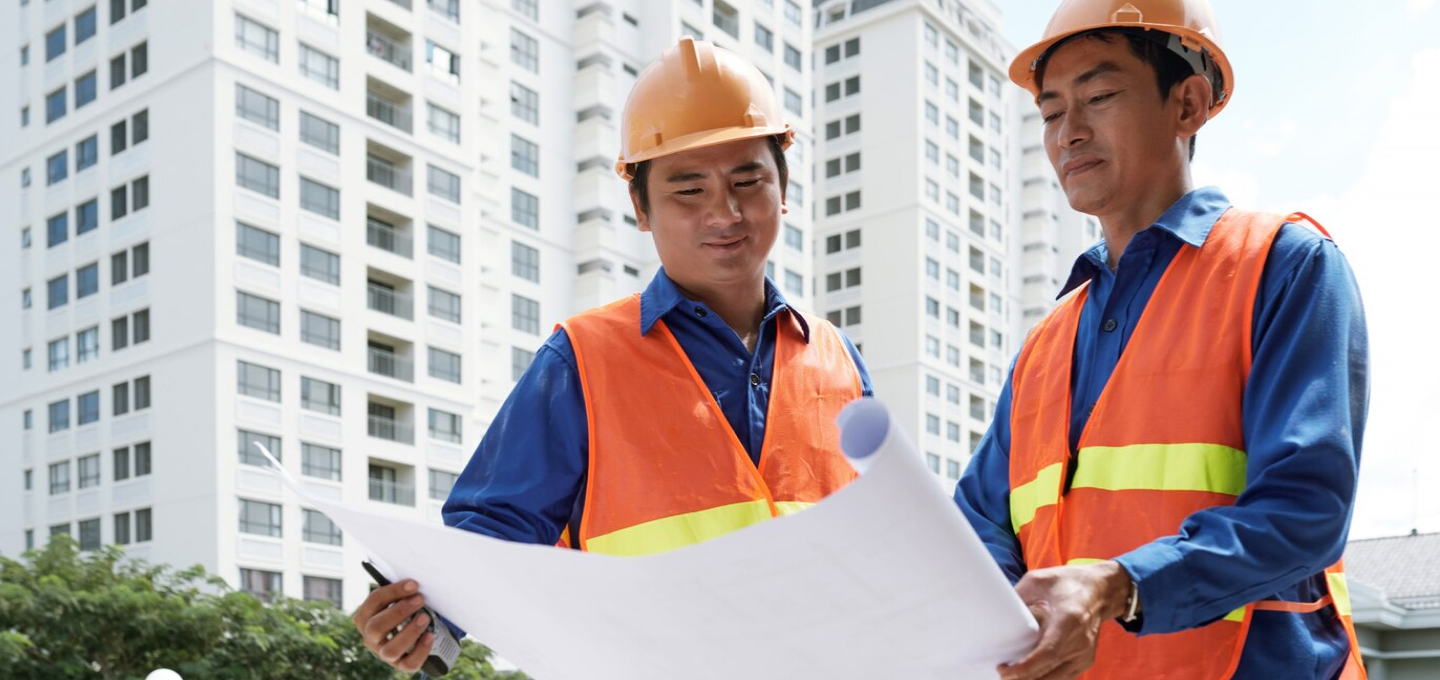
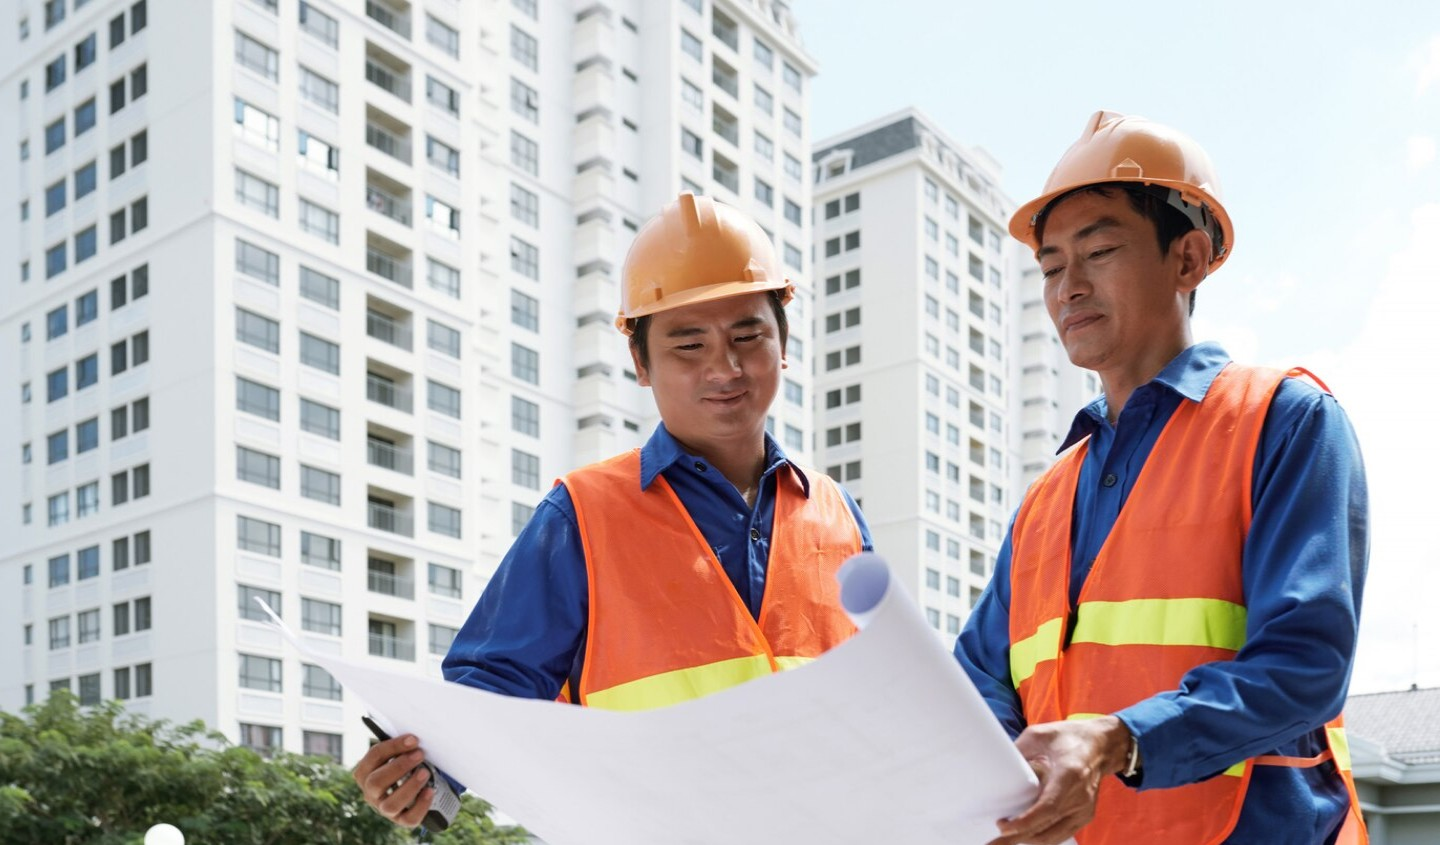
hero section aman

diff --git a/index.html b/index.html
@@ -12,7 +12,7 @@
 
 <body>
     <!-- header -->
-    <header class="bg-transparent absolute top-0 left-0 w-full flex items-center z-10">
+    <header class="bg-white absolute top-0 left-0 w-full flex items-center z-10">
         <div class="container mx-auto">
             <div class="flex items-center justify-between relative">
                 <div class="flex items-center px-4 space-x-4">
@@ -61,27 +61,27 @@
     <!-- /header -->
 
     <!-- Hero Section -->
-    <section class="relative">
+    <section class="relative top-10 lg:top-0">
         <div class="overflow-hidden relative w-full h-screen">
             <div id="slider" class="flex transition-transform duration-300 ease-in-out h-full">
                 <div class="min-w-full h-full">
-                    <img src="./public/img/gambar1.jpg" alt="Image 1" class="w-full h-full object-cover">
+                    <img src="./public/img/gambar1.jpg" alt="Image 1" class="lg:w-full lg:h-full object-cover">
                 </div>
                 <div class="min-w-full h-full">
-                    <img src="./public/img/gambar2.jpg" alt="Image 2" class="w-full h-full object-cover">
+                    <img src="./public/img/gambar2.jpg" alt="Image 2" class="lg:w-full lg:h-full object-cover">
                 </div>
                 <div class="min-w-full h-full">
-                    <img src="./public/img/gambar3.jpg" alt="Image 3" class="w-full h-full object-cover">
+                    <img src="./public/img/gambar3.jpg" alt="Image 3" class="lg:w-full lg:h-full object-cover">
                 </div>
             </div>
 
             <!-- Navigation Buttons -->
             <button id="prev"
-                class="absolute top-1/2 left-0 transform -translate-y-1/2 bg-white bg-opacity-50 hover:bg-opacity-100 text-black px-4 py-2">
+                class="absolute lg:top-1/2 top-1/5 left-5 transform -translate-y-1/2 bg-white bg-opacity-50 hover:bg-opacity-100 text-black px-4 py-2 rounded-full shadow-lg">
                 &#10094;
             </button>
             <button id="next"
-                class="absolute top-1/2 right-0 transform -translate-y-1/2 bg-white bg-opacity-50 hover:bg-opacity-100 text-black px-4 py-2">
+                class="absolute lg:top-1/2 top-1/5 right-5 transform -translate-y-1/2 bg-white bg-opacity-50 hover:bg-opacity-100 text-black px-4 py-2 rounded-full shadow-lg">
                 &#10095;
             </button>
         </div>

diff --git a/public/css/style.css b/public/css/style.css
@@ -604,24 +604,36 @@ video {
   left: 0px;
 }
 
+.left-5 {
+  left: 1.25rem;
+}
+
 .right-4 {
   right: 1rem;
+}
+
+.right-5 {
+  right: 1.25rem;
 }
 
 .top-0 {
   top: 0px;
 }
 
+.top-1\/4 {
+  top: 25%;
+}
+
+.top-1\/5 {
+  top: 18%;
+}
+
+.top-10 {
+  top: 2.5rem;
+}
+
 .top-full {
   top: 100%;
-}
-
-.right-0 {
-  right: 0px;
-}
-
-.top-1\/2 {
-  top: 50%;
 }
 
 .z-10 {
@@ -647,10 +659,6 @@ video {
   display: block;
 }
 
-.inline {
-  display: inline;
-}
-
 .flex {
   display: flex;
 }
@@ -665,10 +673,6 @@ video {
 
 .h-12 {
   height: 3rem;
-}
-
-.h-\[500px\] {
-  height: 500px;
 }
 
 .h-full {
@@ -730,6 +734,10 @@ video {
   scroll-behavior: smooth;
 }
 
+.rounded-full {
+  border-radius: 9999px;
+}
+
 .rounded-lg {
   border-radius: 0.5rem;
 }
@@ -737,10 +745,6 @@ video {
 .bg-black {
   --tw-bg-opacity: 1;
   background-color: rgb(0 0 0 / var(--tw-bg-opacity));
-}
-
-.bg-transparent {
-  background-color: transparent;
 }
 
 .bg-white {
@@ -796,34 +800,22 @@ video {
   padding-bottom: 1.5rem;
 }
 
-.pt-20 {
-  padding-top: 5rem;
-}
-
 .text-base {
   font-size: 1rem;
   line-height: 1.5rem;
-}
-
-.text-lg {
-  font-size: 1.125rem;
-  line-height: 1.75rem;
 }
 
 .font-bold {
   font-weight: 700;
 }
 
-.font-medium {
-  font-weight: 500;
-}
-
 .font-normal {
   font-weight: 400;
 }
 
-.text-transparent {
-  color: transparent;
+.text-black {
+  --tw-text-opacity: 1;
+  color: rgb(0 0 0 / var(--tw-text-opacity));
 }
 
 .text-dark {
@@ -831,9 +823,8 @@ video {
   color: rgb(30 30 30 / var(--tw-text-opacity));
 }
 
-.text-black {
-  --tw-text-opacity: 1;
-  color: rgb(0 0 0 / var(--tw-text-opacity));
+.text-transparent {
+  color: transparent;
 }
 
 .underline {
@@ -844,16 +835,8 @@ video {
   text-decoration-thickness: 1px;
 }
 
-.decoration-2 {
-  text-decoration-thickness: 2px;
-}
-
 .underline-offset-4 {
   text-underline-offset: 4px;
-}
-
-.underline-offset-2 {
-  text-underline-offset: 2px;
 }
 
 .shadow-lg {
@@ -912,6 +895,14 @@ video {
     position: static;
   }
 
+  .lg\:top-0 {
+    top: 0px;
+  }
+
+  .lg\:top-1\/2 {
+    top: 50%;
+  }
+
   .lg\:block {
     display: block;
   }
@@ -922,6 +913,14 @@ video {
 
   .lg\:hidden {
     display: none;
+  }
+
+  .lg\:h-full {
+    height: 100%;
+  }
+
+  .lg\:w-full {
+    width: 100%;
   }
 
   .lg\:max-w-full {

diff --git a/tailwind.config.js b/tailwind.config.js
@@ -13,6 +13,9 @@ module.exports = {
         secondary: "#64748b",
         dark: "#1E1E1E",
       },
+      spacing: {
+        '1/5': '18%',
+      },
       screens: {
         "2xl": "1320px",
       },
